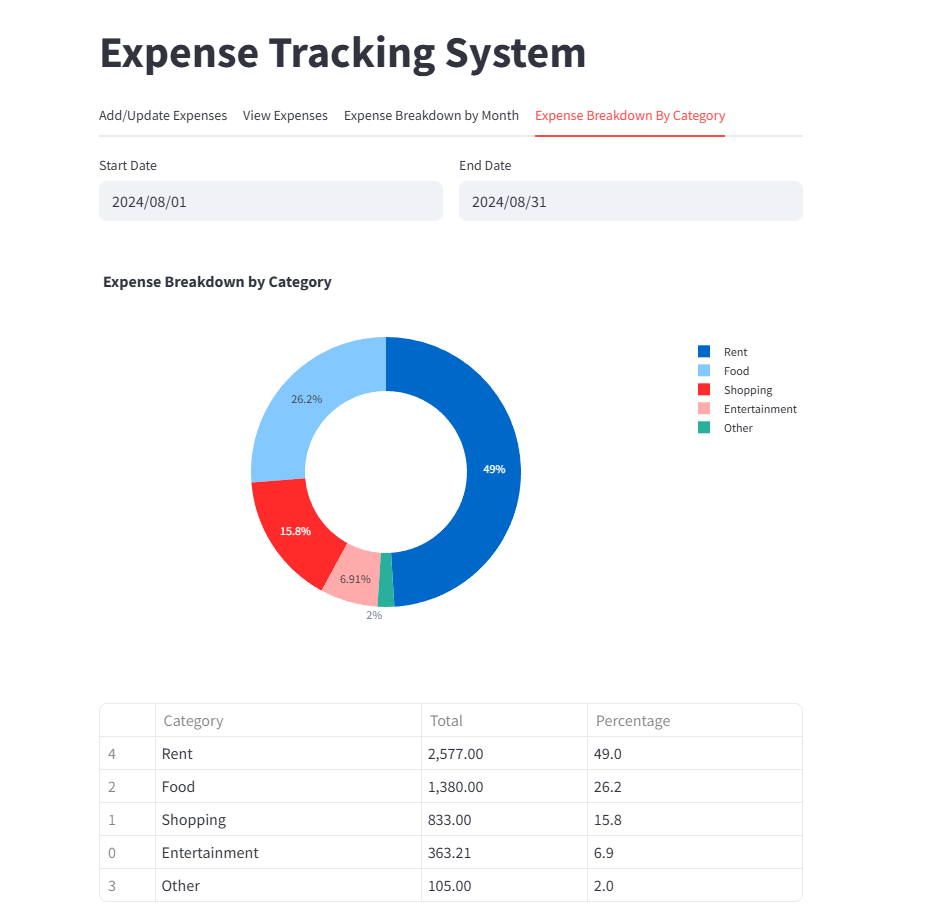
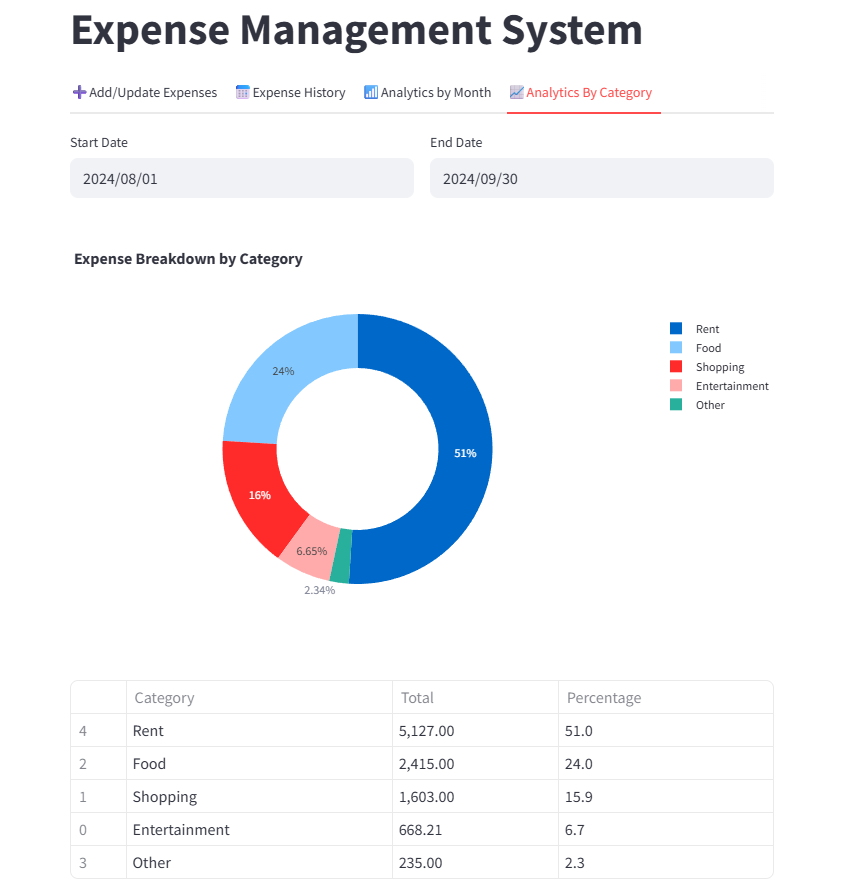
updated stacked bar chart formatting

diff --git a/frontend/main.py b/frontend/main.py
@@ -6,18 +6,18 @@ from add_update_ui import view_expenses_tab
 
 #Page browser title and tab icon setup
 st.set_page_config(
-    page_title="Expense Tracking System",
+    page_title="Expense Management System",
     page_icon = "📊"
 )
 
 #Homepage title
-st.title("Expense Tracking System")
+st.title("Expense Management System")
 
 tab1, tab2, tab3, tab4 = st.tabs(
-    ["Add/Update Expenses",
-     "View Expenses",
-     "Expense Breakdown by Month",
-     "Expense Breakdown By Category"]
+    ["➕Add/Update Expenses",
+     "📅Expense History",
+     "📶Analytics by Month",
+     "📈Analytics By Category"]
 )
 
 with tab1:
